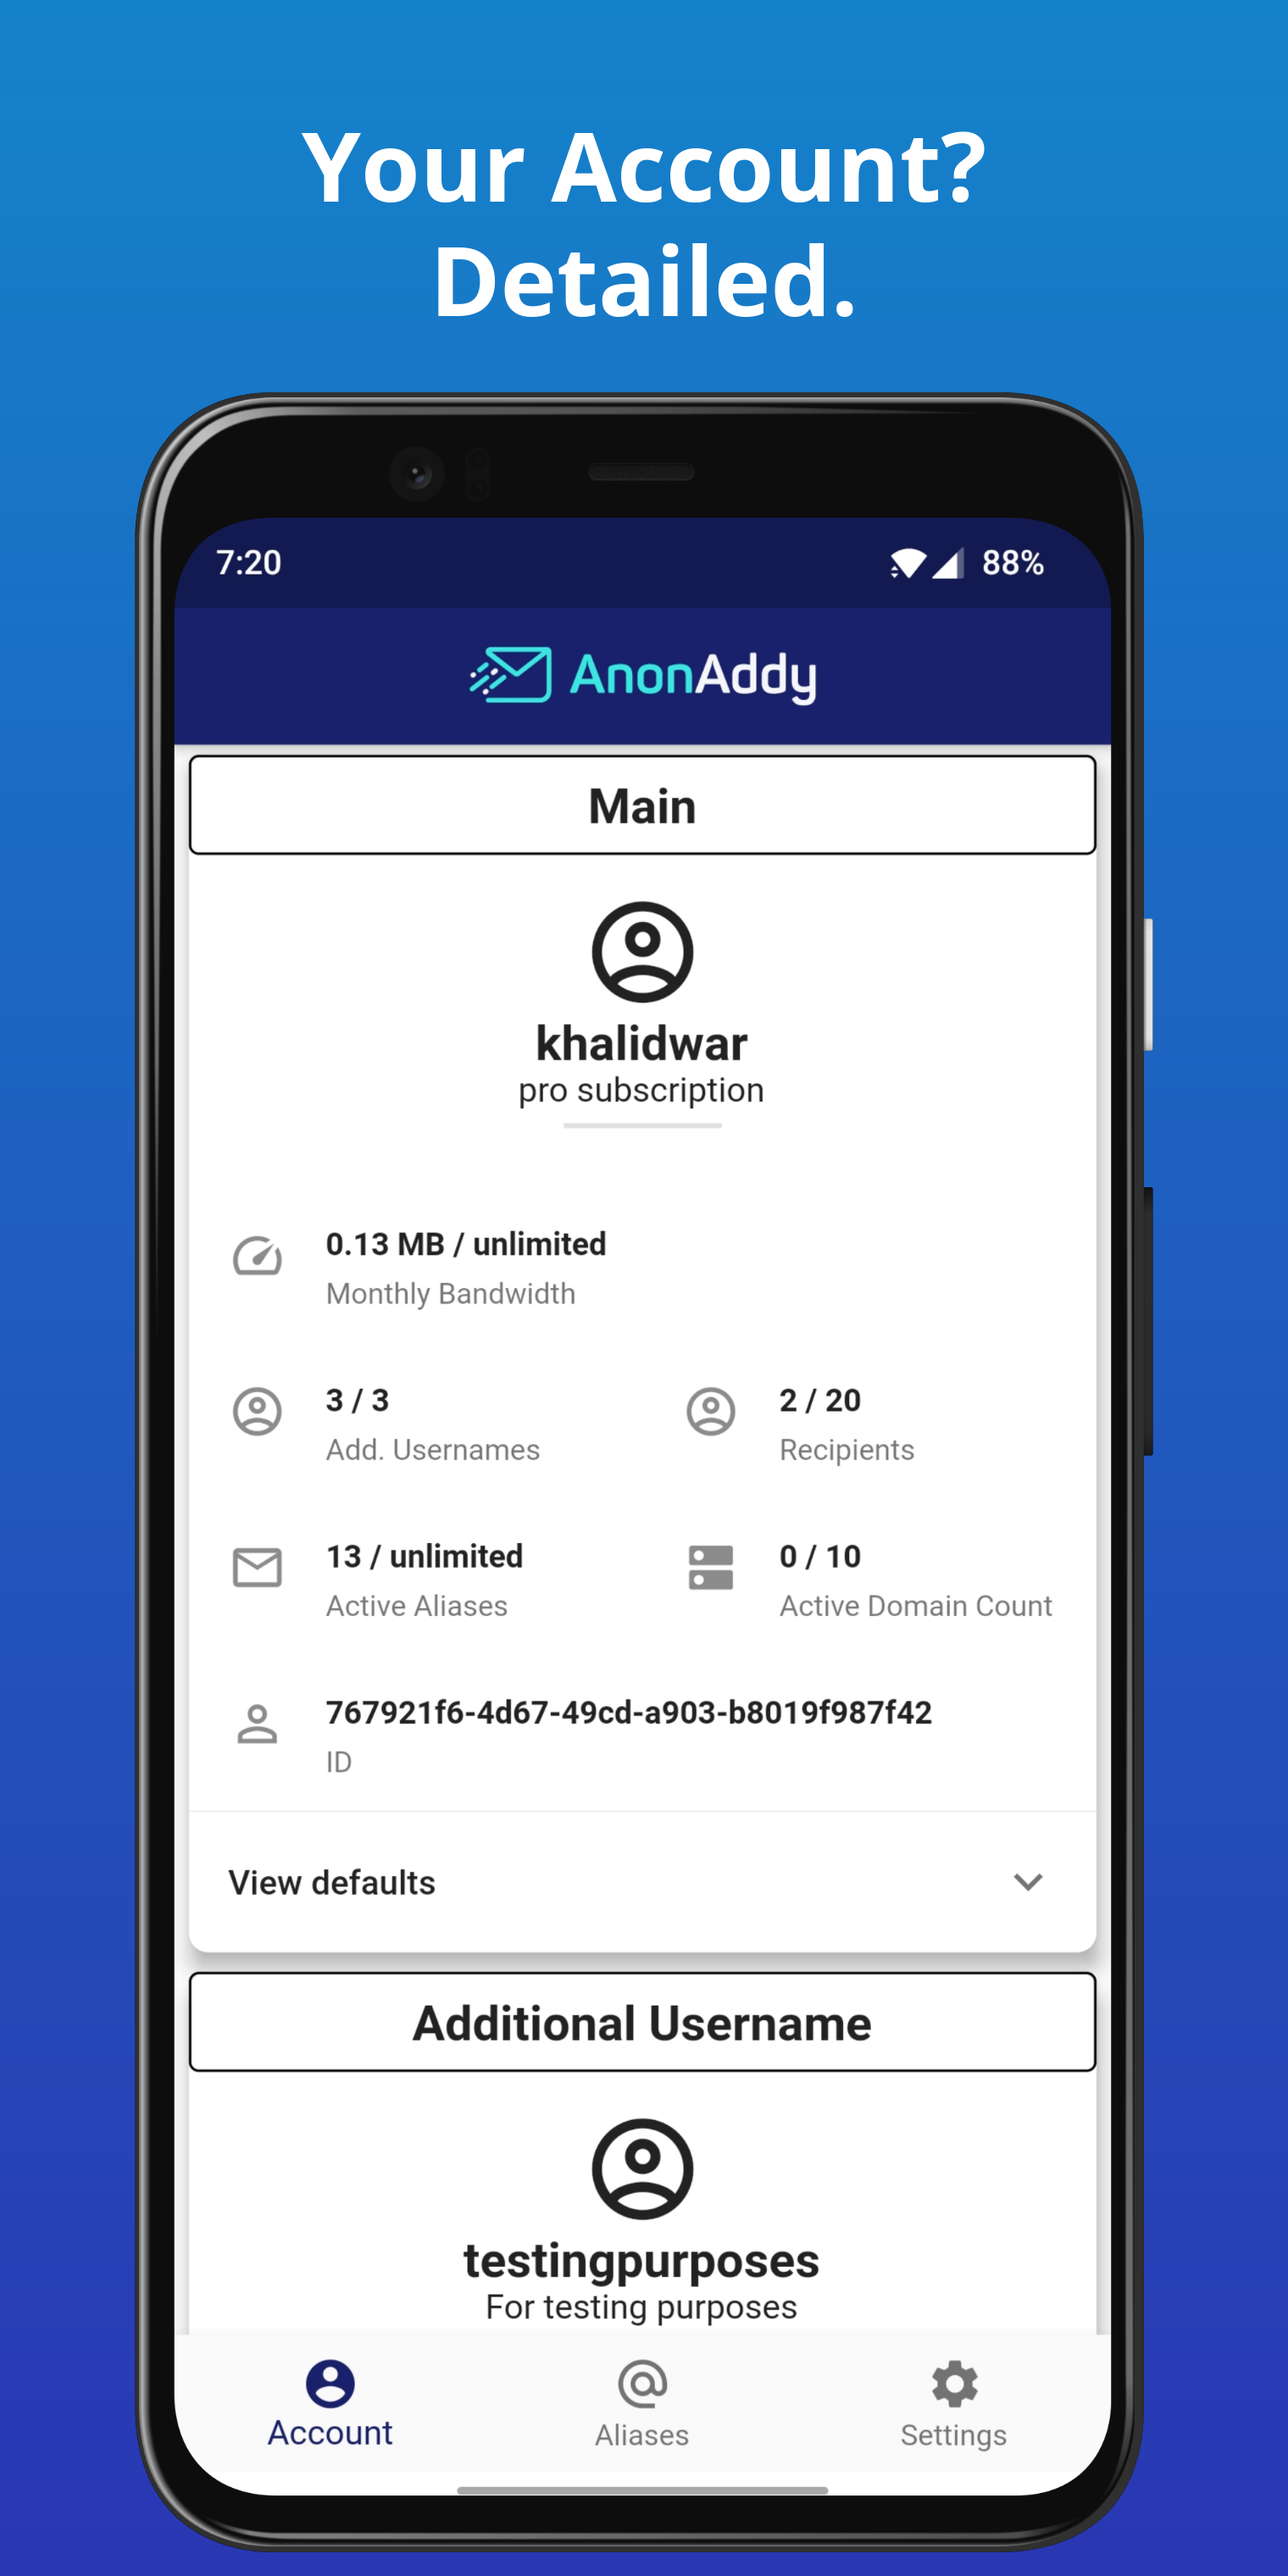
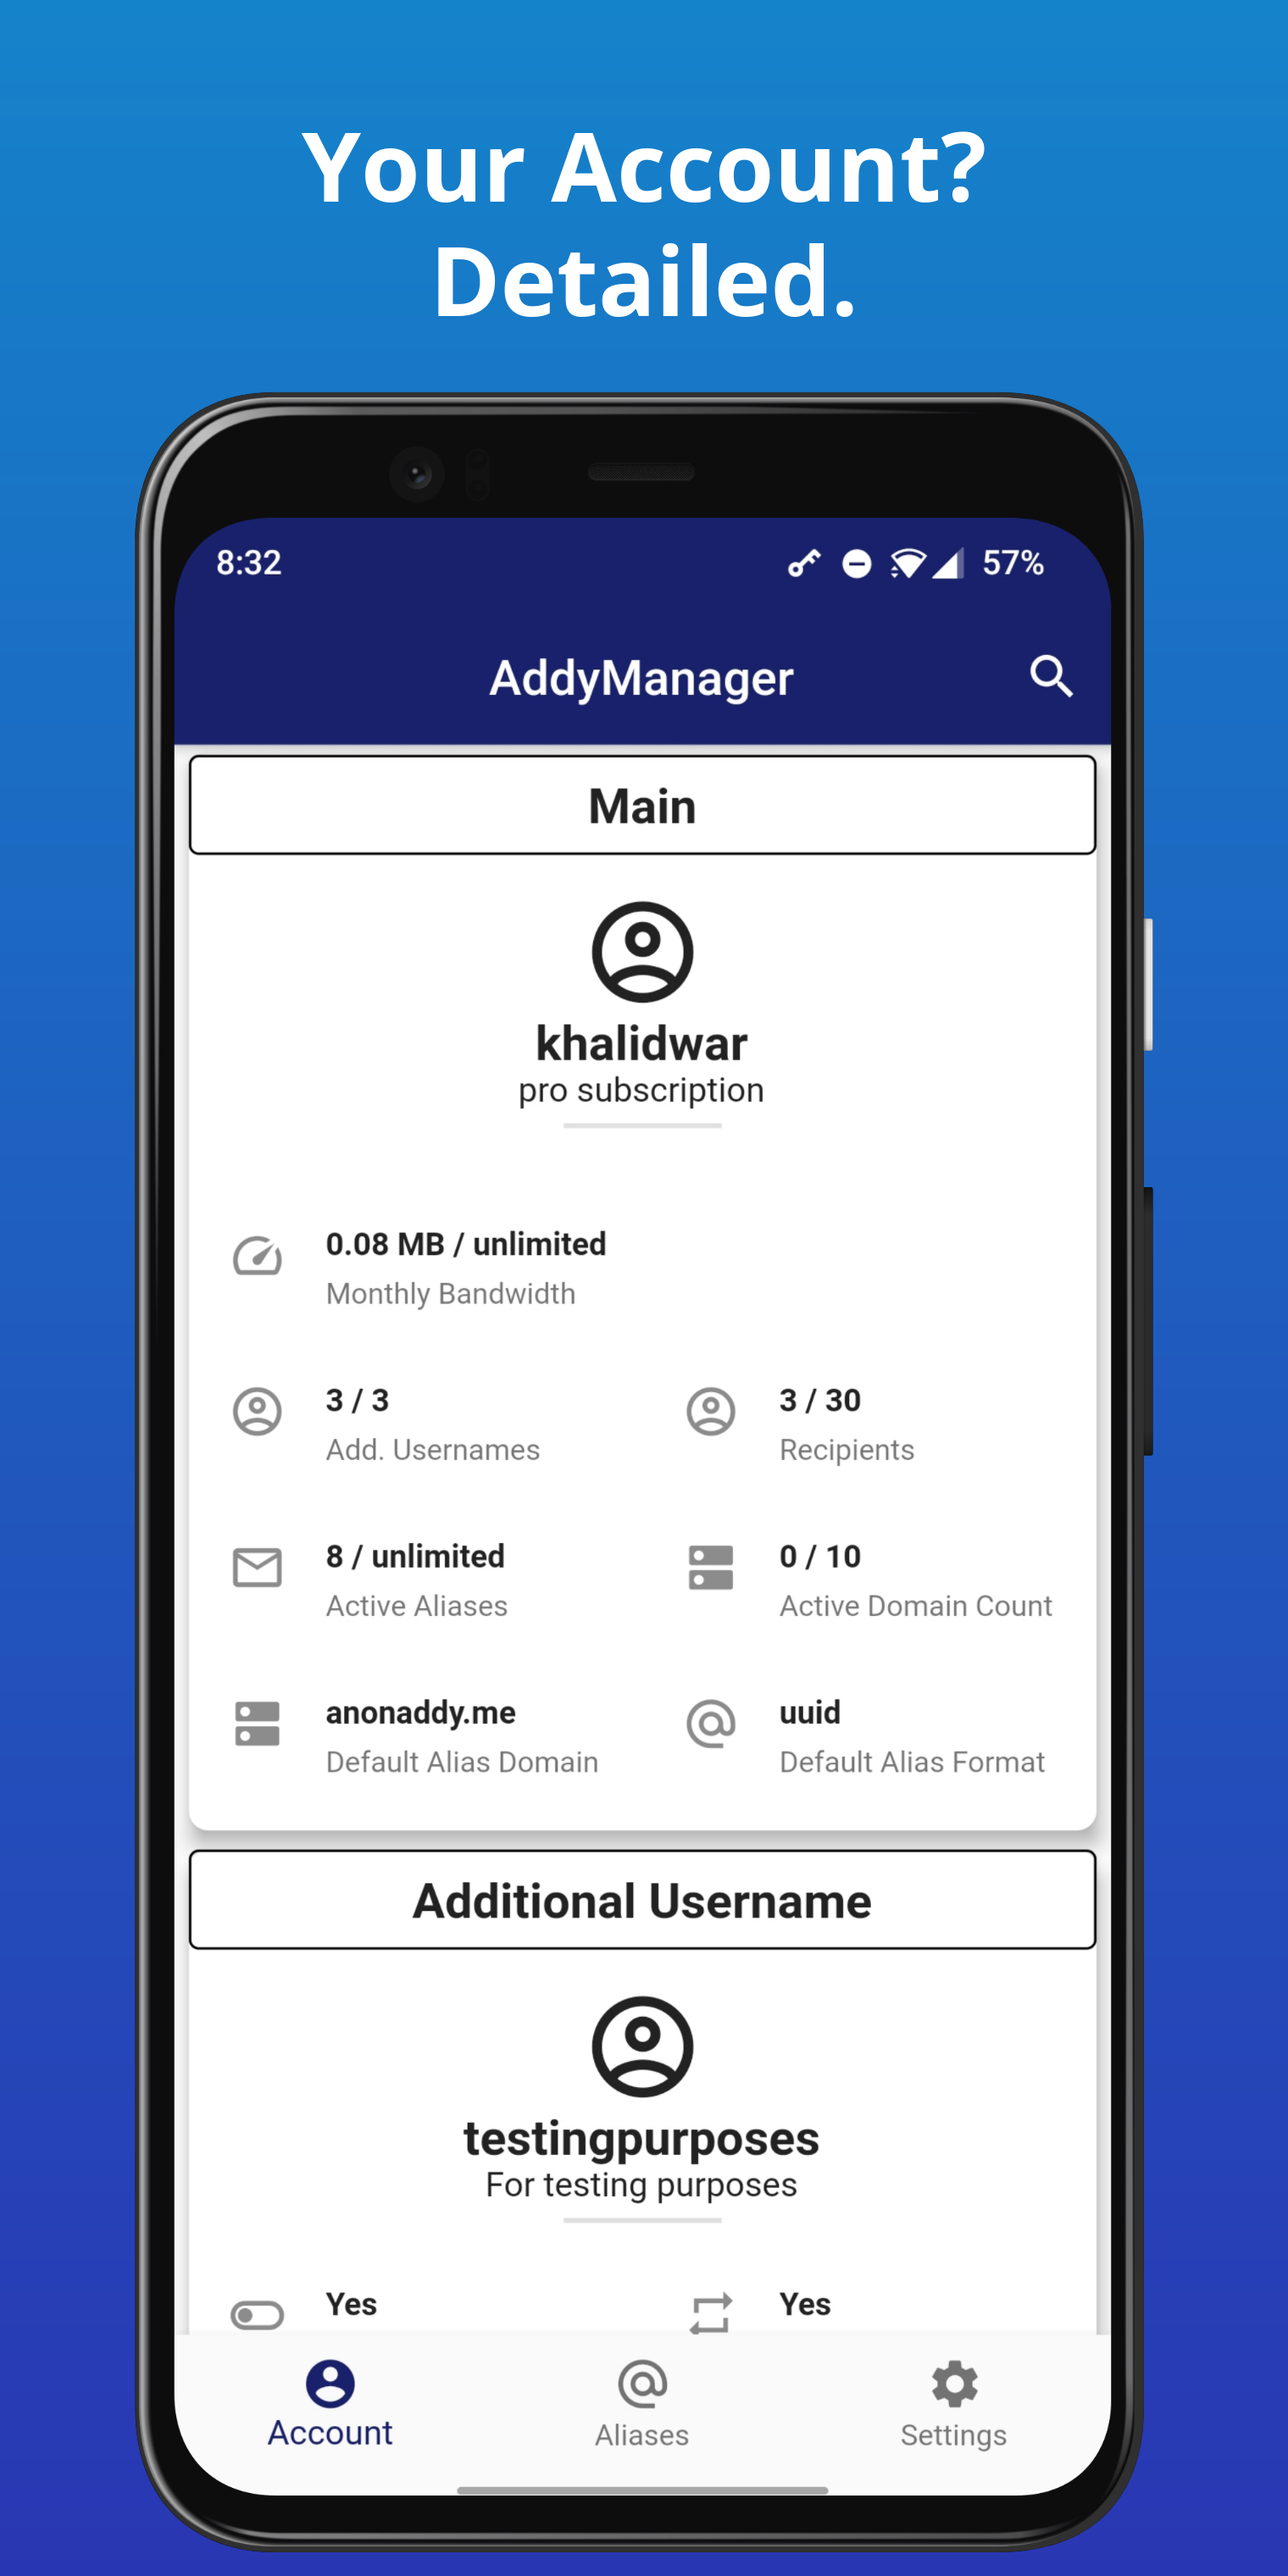
Updated README and screenshots

diff --git a/README.md b/README.md
@@ -1,9 +1,12 @@
-# AnonAddy
+# AddyManager - AnonAddy for Android and iPhone.
 Mobile app for [AnonAddy](https://anonaddy.com/). This app utilises [AnonAddy's API](https://app.anonaddy.com/docs/) to interact with user account.
 
+[![Codemagic build status](https://api.codemagic.io/apps/5fe2a9a115bfd177d368e1b3/5fe2a9a115bfd177d368e1b2/status_badge.svg)](https://codemagic.io/apps/5fe2a9a115bfd177d368e1b3/5fe2a9a115bfd177d368e1b2/latest_build)
 
 ## Get it on
-[<img src="assets/screenshots/google_play_badge.png" width="250">](https://play.google.com/store/apps/details?id=com.khalidwar.anonaddy)
+[<img src="assets/screenshots/play_store_badge.png" width="250">](https://play.google.com/store/apps/details?id=com.khalidwar.anonaddy)   
+[<img src="assets/screenshots/app_store_badge.png" width="250">](https://apps.apple.com/us/app/addymanager/id1547461270)   
+<script type="text/javascript" src="https://cdnjs.buymeacoffee.com/1.0.0/button.prod.min.js" data-name="bmc-button" data-slug="khalidwar" data-color="#19216c" data-emoji=""  data-font="Comic" data-text="Buy me a coffee" data-outline-color="#ffffff" data-font-color="#ffffff" data-coffee-color="#FFDD00" ></script>
 
 
 ## Screenshots
@@ -12,49 +15,53 @@ Mobile app for [AnonAddy](https://anonaddy.com/). This app utilises [AnonAddy's 
 
 
 ## Features
-- Log in with [Access Token](https://app.anonaddy.com/settings).
-- Get AnonAddy account details including additional usernames.
-- Get detailed view of all aliases, available and deleted ones.
-- Create new alias with custom description, domain, and format (UUID and random words).
-- Search aliases by email address, alias id, or description.
-- Copy alias email address with a single tap.
+- Get detailed view of all aliases (available or deleted).
+- Copy email address with a single tap. 
+- Search aliases by email address, domain, alias, or description.
 - Activate and deactivate aliases on the fly.
+- Create new alias with custom description, domain, and format (UUID and random words).
 - Delete and restore aliases.
+- Add or remove PGP key.
+- Enable or disable PGP Email encryption.
 - Adaptive and persistive Light and Dark themes.
 
 
 ## Security
-App requires [Access Token](https://app.anonaddy.com/settings) to access and manage your AnonAddy account. 
-This app uses secure storage, [Keychain](https://developer.apple.com/documentation/security/keychain_services#//apple_ref/doc/uid/TP30000897-CH203-TP1) for iOS and [KeyStore](https://developer.android.com/training/articles/keystore) for Android, to safely and securely store provided access token. Your access token is NEVER sent to me or any external server. 
+AddyManager requires [Access Token](https://app.anonaddy.com/settings) to access and manage your AnonAddy account. It utilizes secure storage, [Keychain](https://developer.apple.com/documentation/security/keychain_services#//apple_ref/doc/uid/TP30000897-CH203-TP1) for iOS and [KeyStore](https://developer.android.com/training/articles/keystore) for Android, to safely and securely store provided access token. Your access token is NEVER sent to us or any external server. 
 
 
 ## Privacy
-This app is a one of [Khalid War's](https://github.com/KhalidWar) personal projects. It's free and open source licensed under [MIT](https://github.com/KhalidWar/anonaddy/blob/master/LICENSE). Free as in free of charge, ads, analytics, and trackers. What's yours is yours. Please feel free to inspect the code and verify for yourself.
+AddyManager is free and open source software licensed under [MIT](https://github.com/KhalidWar/anonaddy/blob/master/LICENSE). Free as in free of charge, ads, analytics, and trackers. What's yours is yours. Please feel free to inspect the code and verify for yourself.
 
 
 ## Packages used
 - [http](https://pub.dev/packages/http)
-- [Provider](https://pub.dev/packages/provider)
+- [Flutter Riverpod](https://pub.dev/packages/flutter_riverpod)
 - [Shared Preference](https://pub.dev/packages/shared_preferences)
 - [Flutter SVG](https://pub.dev/packages/flutter_svg)
 - [Font Awesome Flutter](https://pub.dev/packages/font_awesome_flutter)
 - [URL Launcher](https://pub.dev/packages/url_launcher)
-- [Clipboard](https://pub.dev/packages/clipboard)
 - [Lottie](https://pub.dev/packages/lottie)
 - [Flutter Secure Storage](https://pub.dev/packages/flutter_secure_storage)
 - [FlutterToast](https://pub.dev/packages/fluttertoast)
+- [Animations](https://pub.dev/packages/animations)
+- [Mockito](https://pub.dev/packages/mockito)
 
 
-## Installation
-Install by either sideloading attacked [APK file](https://github.com/KhalidWar/anonaddy/releases) on your android device or by building project from source following steps below.
+## Development
+
+### Contribution
+Please fork this repo and help out. Make small and concise commits.
 
 ### Getting Started
 Check out [Flutter's official guide](https://flutter.dev/docs/get-started/install) to installing and running flutter.
 
 ### Prerequisites
 - Download IDE either [Android Studio](https://developer.android.com/studio) or [VSC](https://code.visualstudio.com/)
-- Install Flutter SDK and Dart plugin
+- Install Flutter SDK and Dart plugin.
+- Flutter channel master.
 - Mobile device (emulator or physical).
+- No special set up needed.
 
 ### Steps
 - Clone this repo to your machine: `https://github.com/KhalidWar/anonaddy.git`
@@ -67,7 +74,7 @@ Check out [Flutter's official guide](https://flutter.dev/docs/get-started/instal
 This project is licensed under [MIT Licnese](https://github.com/KhalidWar/anonaddy/blob/master/LICENSE).
 
 ## Acknowledgement
-- Special thanks to AnonAddy's team for providing us with their [API and excellent documentation](https://app.anonaddy.com/docs/).
+Special thanks to AnonAddy's team for providing us with their free [API and excellent documentation](https://app.anonaddy.com/docs/).
 
 ## Disclaimer
-This is a personal project and is **NOT** associated with [AnonAddy's project or team](https://github.com/anonaddy).
+Disclaimer: AddyManager is independently created by [Khalid War](https://github.com/khalidwar) as a tool to help you manage your AnonAddy account and is not associated with the official AnonAddy.com project or team.
